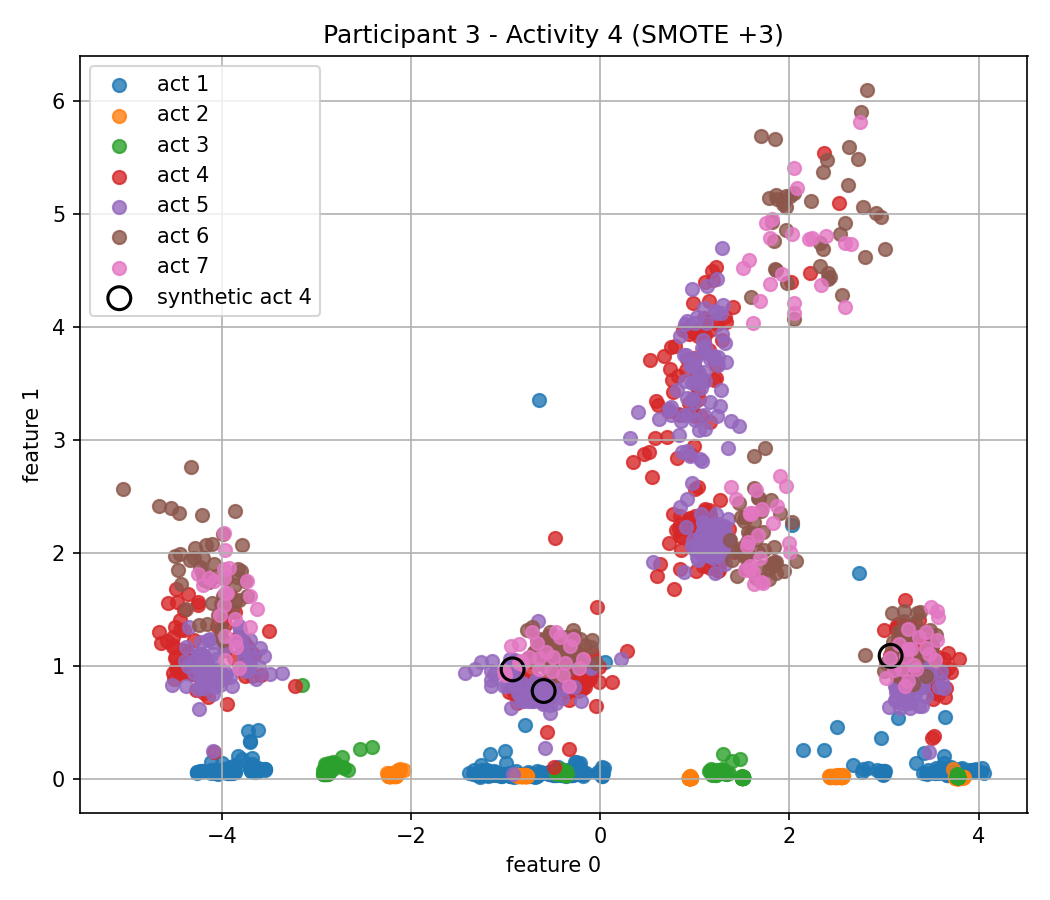
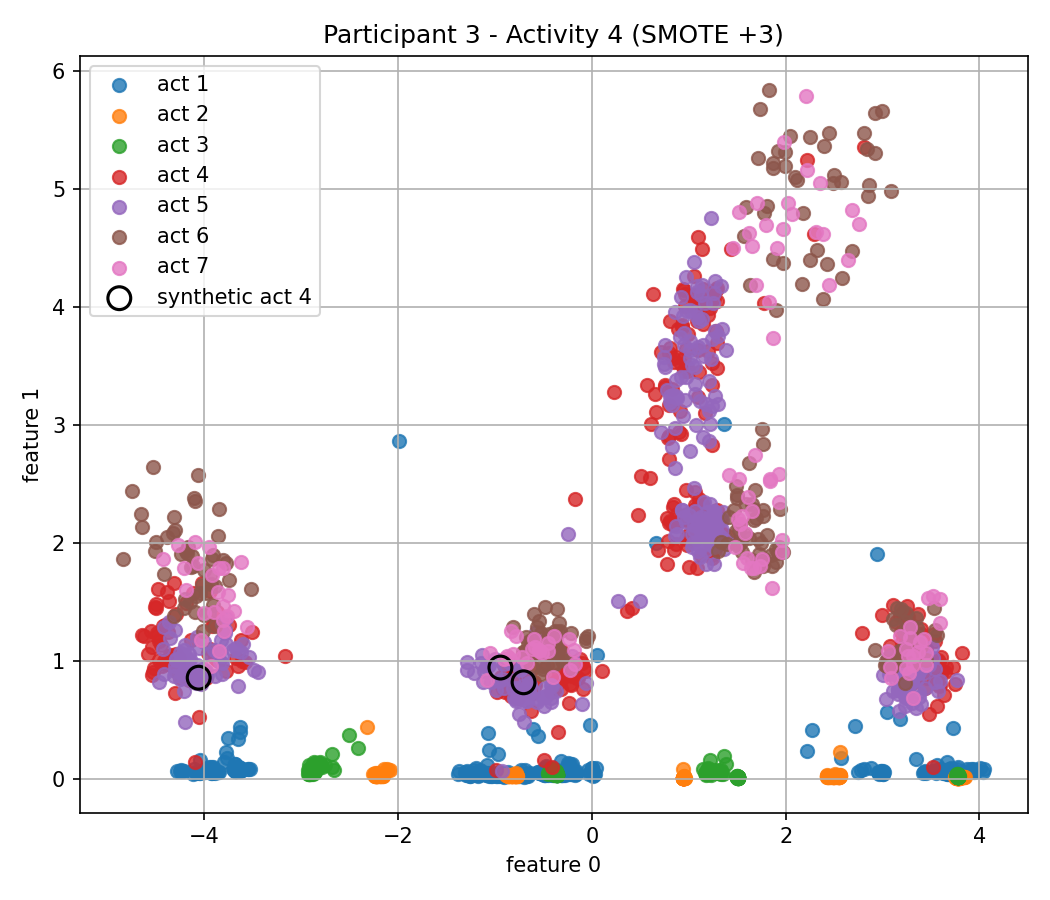
usar features que têm tudo mas so ir ao participante 3

diff --git a/meta2/smote/meta2_balance.py b/meta2/smote/meta2_balance.py
@@ -231,6 +231,8 @@ def generate_and_visualize_samples_for_participant(
     out_plot: str | None = None,
     random_state: int | None = 42,
     allowed_activities=tuple(range(1, 8)),
+    force_recompute: bool = False,
+    features_dir: str | Path | None = None,
 ):
     """Generate K SMOTE samples for `activity` using ONLY data from `participante`.
 
@@ -250,30 +252,57 @@ def generate_and_visualize_samples_for_participant(
             raise RuntimeError(f"Missing dependency for generation/plot: {e}")
     import matplotlib.pyplot as plt
 
-    # 1) Load raw data for the specific participant and sensors
-    dados = data_treatment.get_data(participante, list(sensors)) # type: ignore
-    if getattr(dados, 'size', 0) == 0:
-        raise FileNotFoundError(f"No data found for participant {participante} with sensors {sensors}")
-
-    activities = dados[:, 11].astype(int)
-    accel_data = dados[:, 1:4].astype(float)
-    gyro_data = dados[:, 4:7].astype(float)
-    mag_data = dados[:, 7:10].astype(float)
-
-    sr = fe.sampling_rate_calculator(dados)
-
-    # 2) Extract features for this participant only
-    X, y, _ = fe.extract_features_4_2(accel_data, gyro_data, mag_data, activities, sampling_rate=sr)
-    if getattr(X, 'size', 0) == 0:
-        raise RuntimeError("Feature extraction returned no windows for this participant.")
-
-    # 2.1) Filter to allowed activities (e.g., 1..7)
     allowed_set = set(allowed_activities)
-    mask_allowed = np.isin(y, list(allowed_set))
-    X = X[mask_allowed]
-    y = y[mask_allowed]
-    if X.size == 0:
-        raise RuntimeError(f"No windows remain after filtering allowed activities {sorted(allowed_set)}.")
+    features_dir = Path(features_dir) if features_dir else DATA_PROCESSED
+
+    X = None
+    y = None
+
+    if not force_recompute:
+        try:
+            X_all = np.loadtxt(features_dir / "features_X.csv", delimiter=',')
+            if X_all.ndim == 1:
+                X_all = X_all.reshape(1, -1)
+            y_all = np.loadtxt(features_dir / "features_y.csv", delimiter=',').astype(int)
+            participants_all = np.loadtxt(features_dir / "features_participant.csv", delimiter=',').astype(int)
+            if participants_all.ndim > 1:
+                participants_all = participants_all.ravel()
+            mask = (participants_all == participante) & np.isin(y_all, list(allowed_set))
+            if not np.any(mask):
+                raise ValueError(
+                    f"No precomputed features found for participant {participante} with allowed activities {sorted(allowed_set)}."
+                )
+            X = X_all[mask]
+            y = y_all[mask]
+            print(f"[meta2_balance] Using precomputed features from '{features_dir}'.")
+        except Exception as e:
+            print(f"[meta2_balance] Falling back to on-the-fly extraction (force_recompute=True): {e}")
+            force_recompute = True
+
+    if force_recompute or X is None or y is None:
+        # 1) Load raw data for the specific participant and sensors
+        dados = data_treatment.get_data(participante, list(sensors)) # type: ignore
+        if getattr(dados, 'size', 0) == 0:
+            raise FileNotFoundError(f"No data found for participant {participante} with sensors {sensors}")
+
+        activities = dados[:, 11].astype(int)
+        accel_data = dados[:, 1:4].astype(float)
+        gyro_data = dados[:, 4:7].astype(float)
+        mag_data = dados[:, 7:10].astype(float)
+
+        sr = fe.sampling_rate_calculator(dados)
+
+        # 2) Extract features for this participant only
+        X, y, _ = fe.extract_features_4_2(accel_data, gyro_data, mag_data, activities, sampling_rate=sr)
+        if getattr(X, 'size', 0) == 0:
+            raise RuntimeError("Feature extraction returned no windows for this participant.")
+
+        mask_allowed = np.isin(y, list(allowed_set))
+        X = X[mask_allowed]
+        y = y[mask_allowed]
+        if X.size == 0:
+            raise RuntimeError(f"No windows remain after filtering allowed activities {sorted(allowed_set)}.")
+        print(f"[meta2_balance] Features recomputed for participant {participante} (force_recompute=True).")
 
     # 3) Check first two features exist
     if X.shape[1] < 2:

diff --git a/meta2/meta2_main.py b/meta2/meta2_main.py
@@ -26,8 +26,14 @@ from meta2.embeddings.embeddings_extractor import (
 DATA_PROCESSED = ROOT / "data" / "processed"
 DATA_PROCESSED.mkdir(parents=True, exist_ok=True)
 META2_FEATURES_FILE = DATA_PROCESSED / "meta2_features.csv"
+FEATURES_X_FILE = DATA_PROCESSED / "features_X.csv"
+FEATURES_Y_FILE = DATA_PROCESSED / "features_y.csv"
+FEATURES_PART_FILE = DATA_PROCESSED / "features_participant.csv"
 
-print("\n=== META 2 – Preparar Dados ===")
+# Flag para voltar a extrair features específicas (default False)
+FORCE_SPECIFIC_FEATURE_RECOMPUTE = False
+
+print("\n=== META 2 - Preparar Dados ===")
 
 # ======================================================================
 # TODO 0 — DEFINIR PARÂMETROS BASE
@@ -84,12 +90,44 @@ print("\n=== 1.2 e 1.3 - Gerar e Visualizar Amostras Sintéticas ===")
 activity_for_aug = 4
 K_aug = 3
 
+force_plot_recompute = FORCE_SPECIFIC_FEATURE_RECOMPUTE
+if not force_plot_recompute:
+    try:
+        features_X = np.loadtxt(FEATURES_X_FILE, delimiter=",")
+        if features_X.ndim == 1:
+            features_X = features_X.reshape(1, -1)
+        features_y = np.loadtxt(FEATURES_Y_FILE, delimiter=",").astype(int)
+        features_part = np.loadtxt(FEATURES_PART_FILE, delimiter=",").astype(int)
+        if features_part.ndim > 1:
+            features_part = features_part.ravel()
+
+        mask_participant = (features_part == participant_selected)
+        mask_allowed = np.isin(features_y, list(range(1, 8)))
+        combined_mask = mask_participant & mask_allowed
+        total_participant_windows = int(combined_mask.sum())
+        total_activity_windows = int((combined_mask & (features_y == activity_for_aug)).sum())
+
+        print(
+            f"[META2][1.2/1.3] Features pré-computadas encontradas: {total_participant_windows} janelas do participante {participant_selected}."
+        )
+        print(
+            f"[META2][1.2/1.3] Atividade {activity_for_aug}: {total_activity_windows} janelas disponíveis (pré-extraídas)."
+        )
+        if total_participant_windows == 0:
+            raise ValueError("Participante sem janelas no ficheiro pré-computado.")
+    except Exception as e:
+        print(f"[META2][1.2/1.3] Aviso: falha ao usar features pré-computadas ({e}). A re-extrair do bruto...")
+        force_plot_recompute = True
+
+
 try:
     meta2_balance.generate_and_visualize_samples_for_participant(
         participant_selected,
         activity=activity_for_aug,
         K=K_aug,
         sensors=sensors_selected,
+        force_recompute=force_plot_recompute,
+        features_dir=DATA_PROCESSED,
     )
 except Exception as e:
     print(f"[META2] Erro em SMOTE/visualização: {e}")
@@ -143,8 +181,8 @@ Task 3.4 - Prepare datasets:
 # TODO 4 — MODEL LEARNING (kNN)
 # ======================================================================
 """
-Task 4.1 – Implement manual kNN
-Task 4.2 – Implement metrics:
+Task 4.1 - Implement manual kNN
+Task 4.2 - Implement metrics:
       - confusion matrix
       - accuracy
       - precision
@@ -157,9 +195,9 @@ Task 4.2 – Implement metrics:
 # TODO 5 — EVALUATION PIPELINE
 # ======================================================================
 """
-Task 5.1 – Hyperparameter tuning (k)
-Task 5.2 – Report confusion matrices, compare
-Task 5.3 – Hypothesis testing (repeat splits for distributions)
+Task 5.1 - Hyperparameter tuning (k)
+Task 5.2 - Report confusion matrices, compare
+Task 5.3 - Hypothesis testing (repeat splits for distributions)
 """
 
 
@@ -193,4 +231,4 @@ Extra improvements:
 """
 
 
-print("\n=== META 2 – TODOS DEFINIDOS ===\n")
+print("\n=== META 2 - TODOS DEFINIDOS ===\n")
